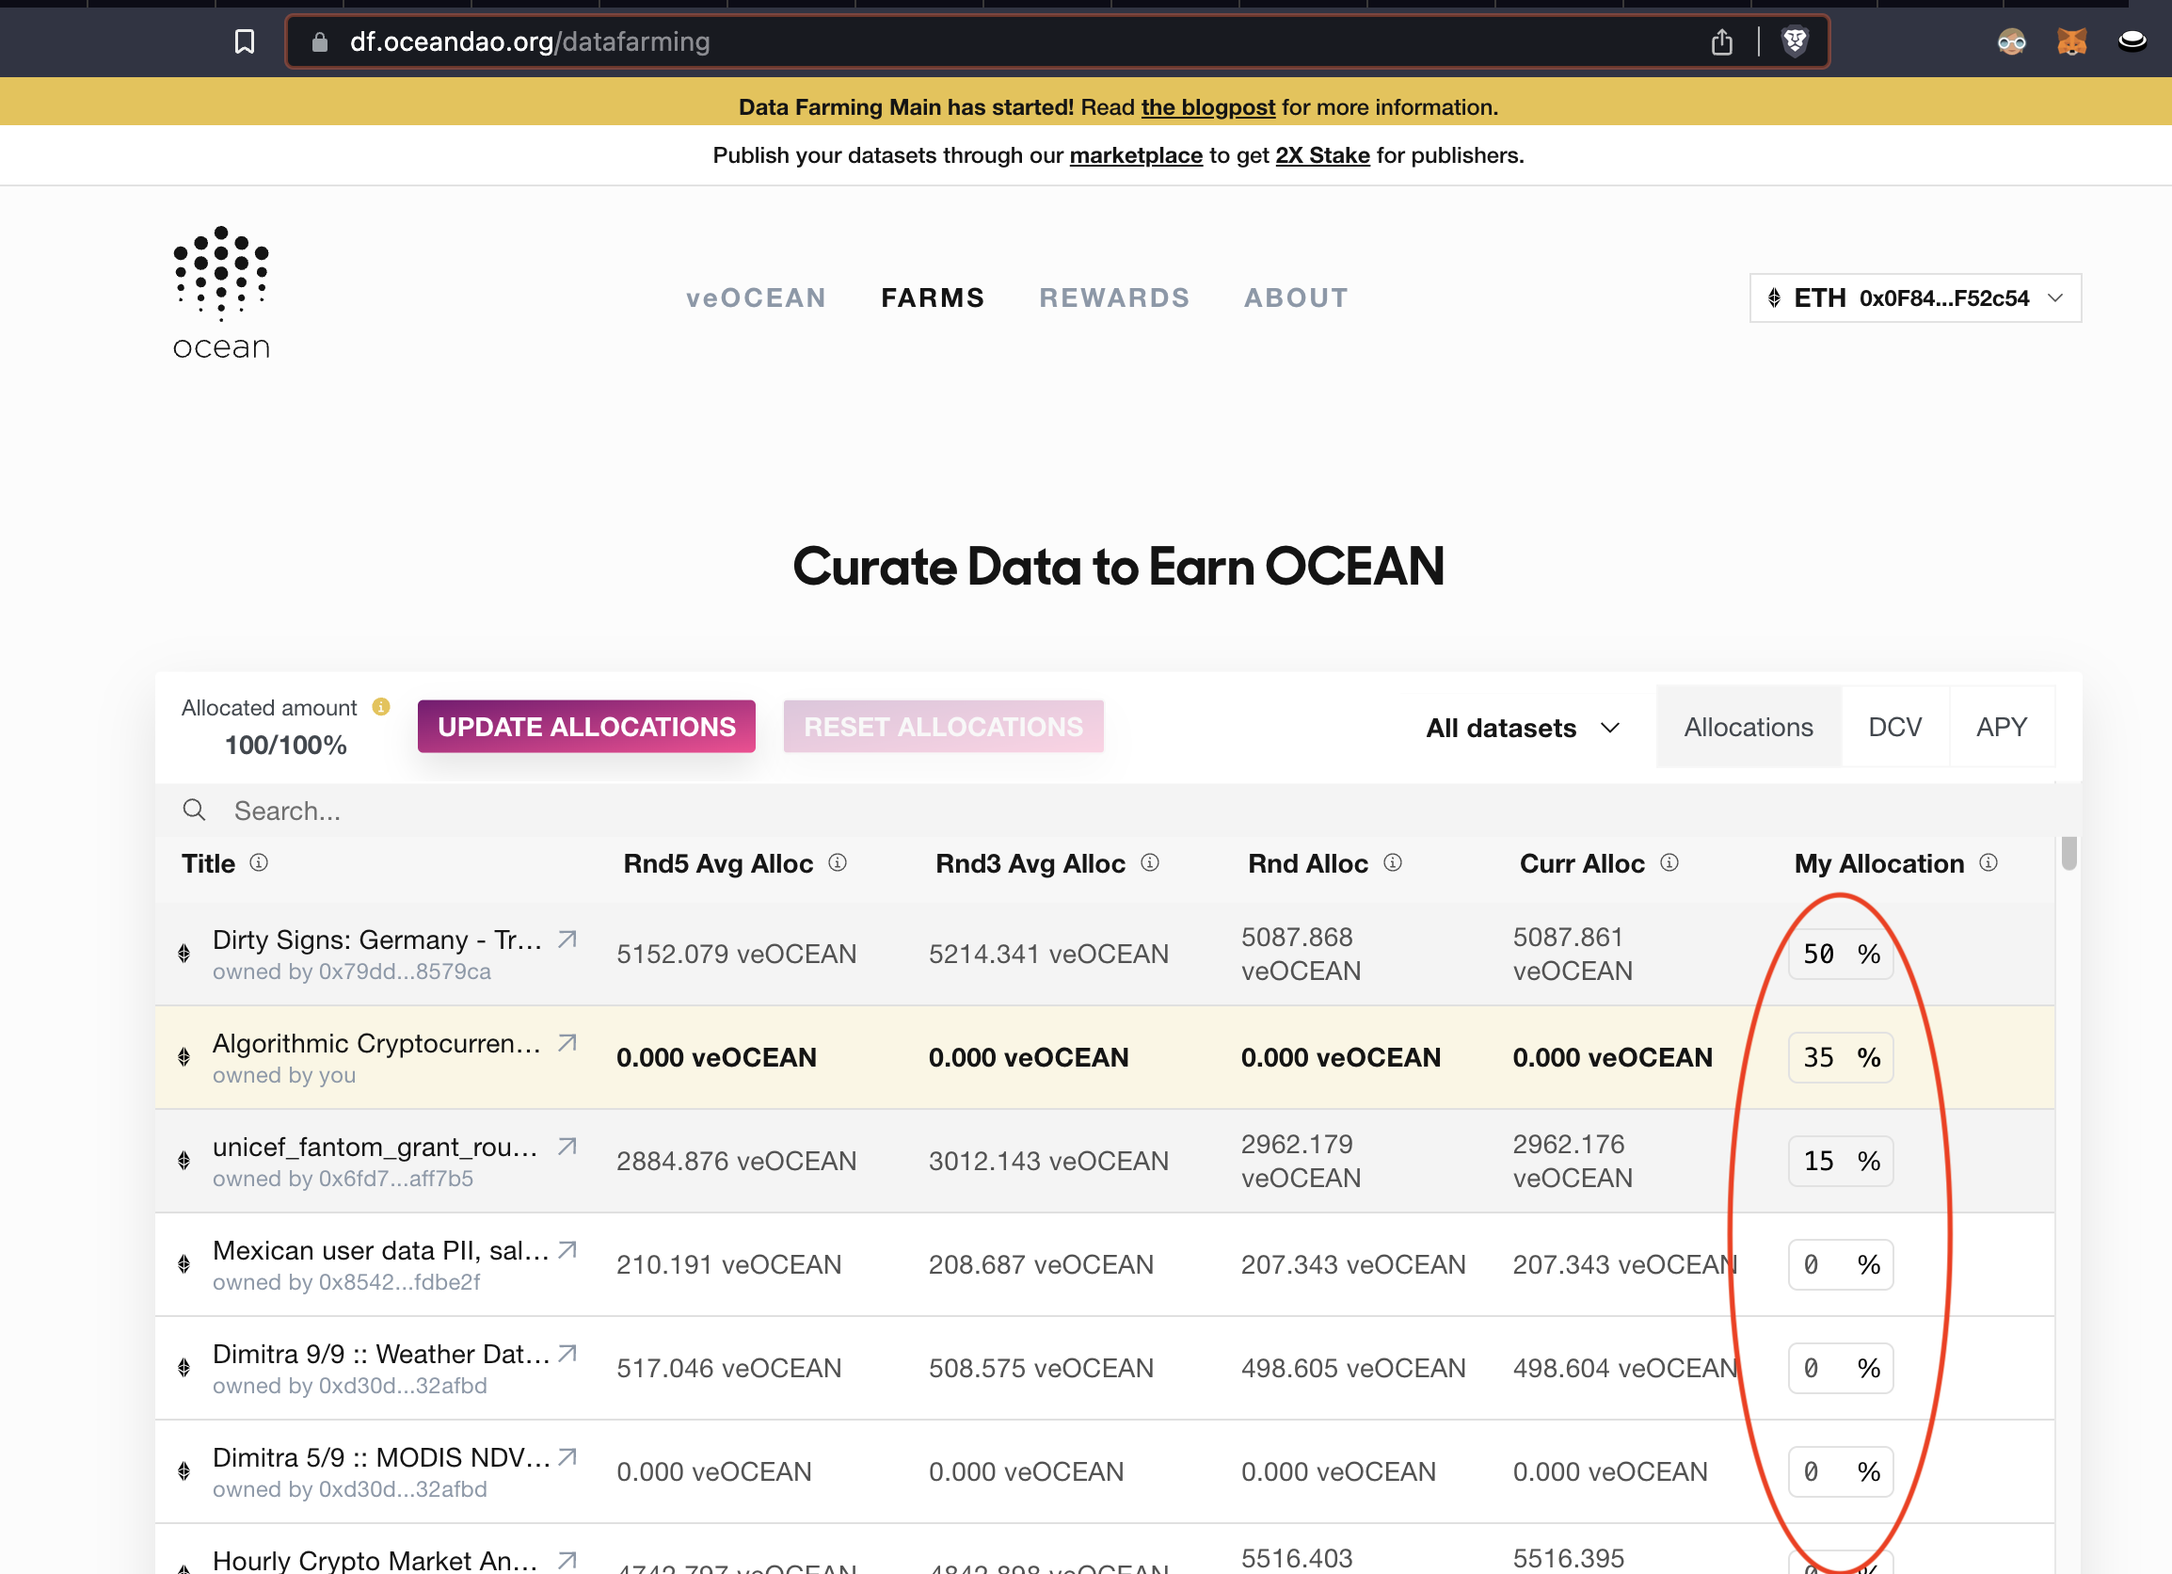
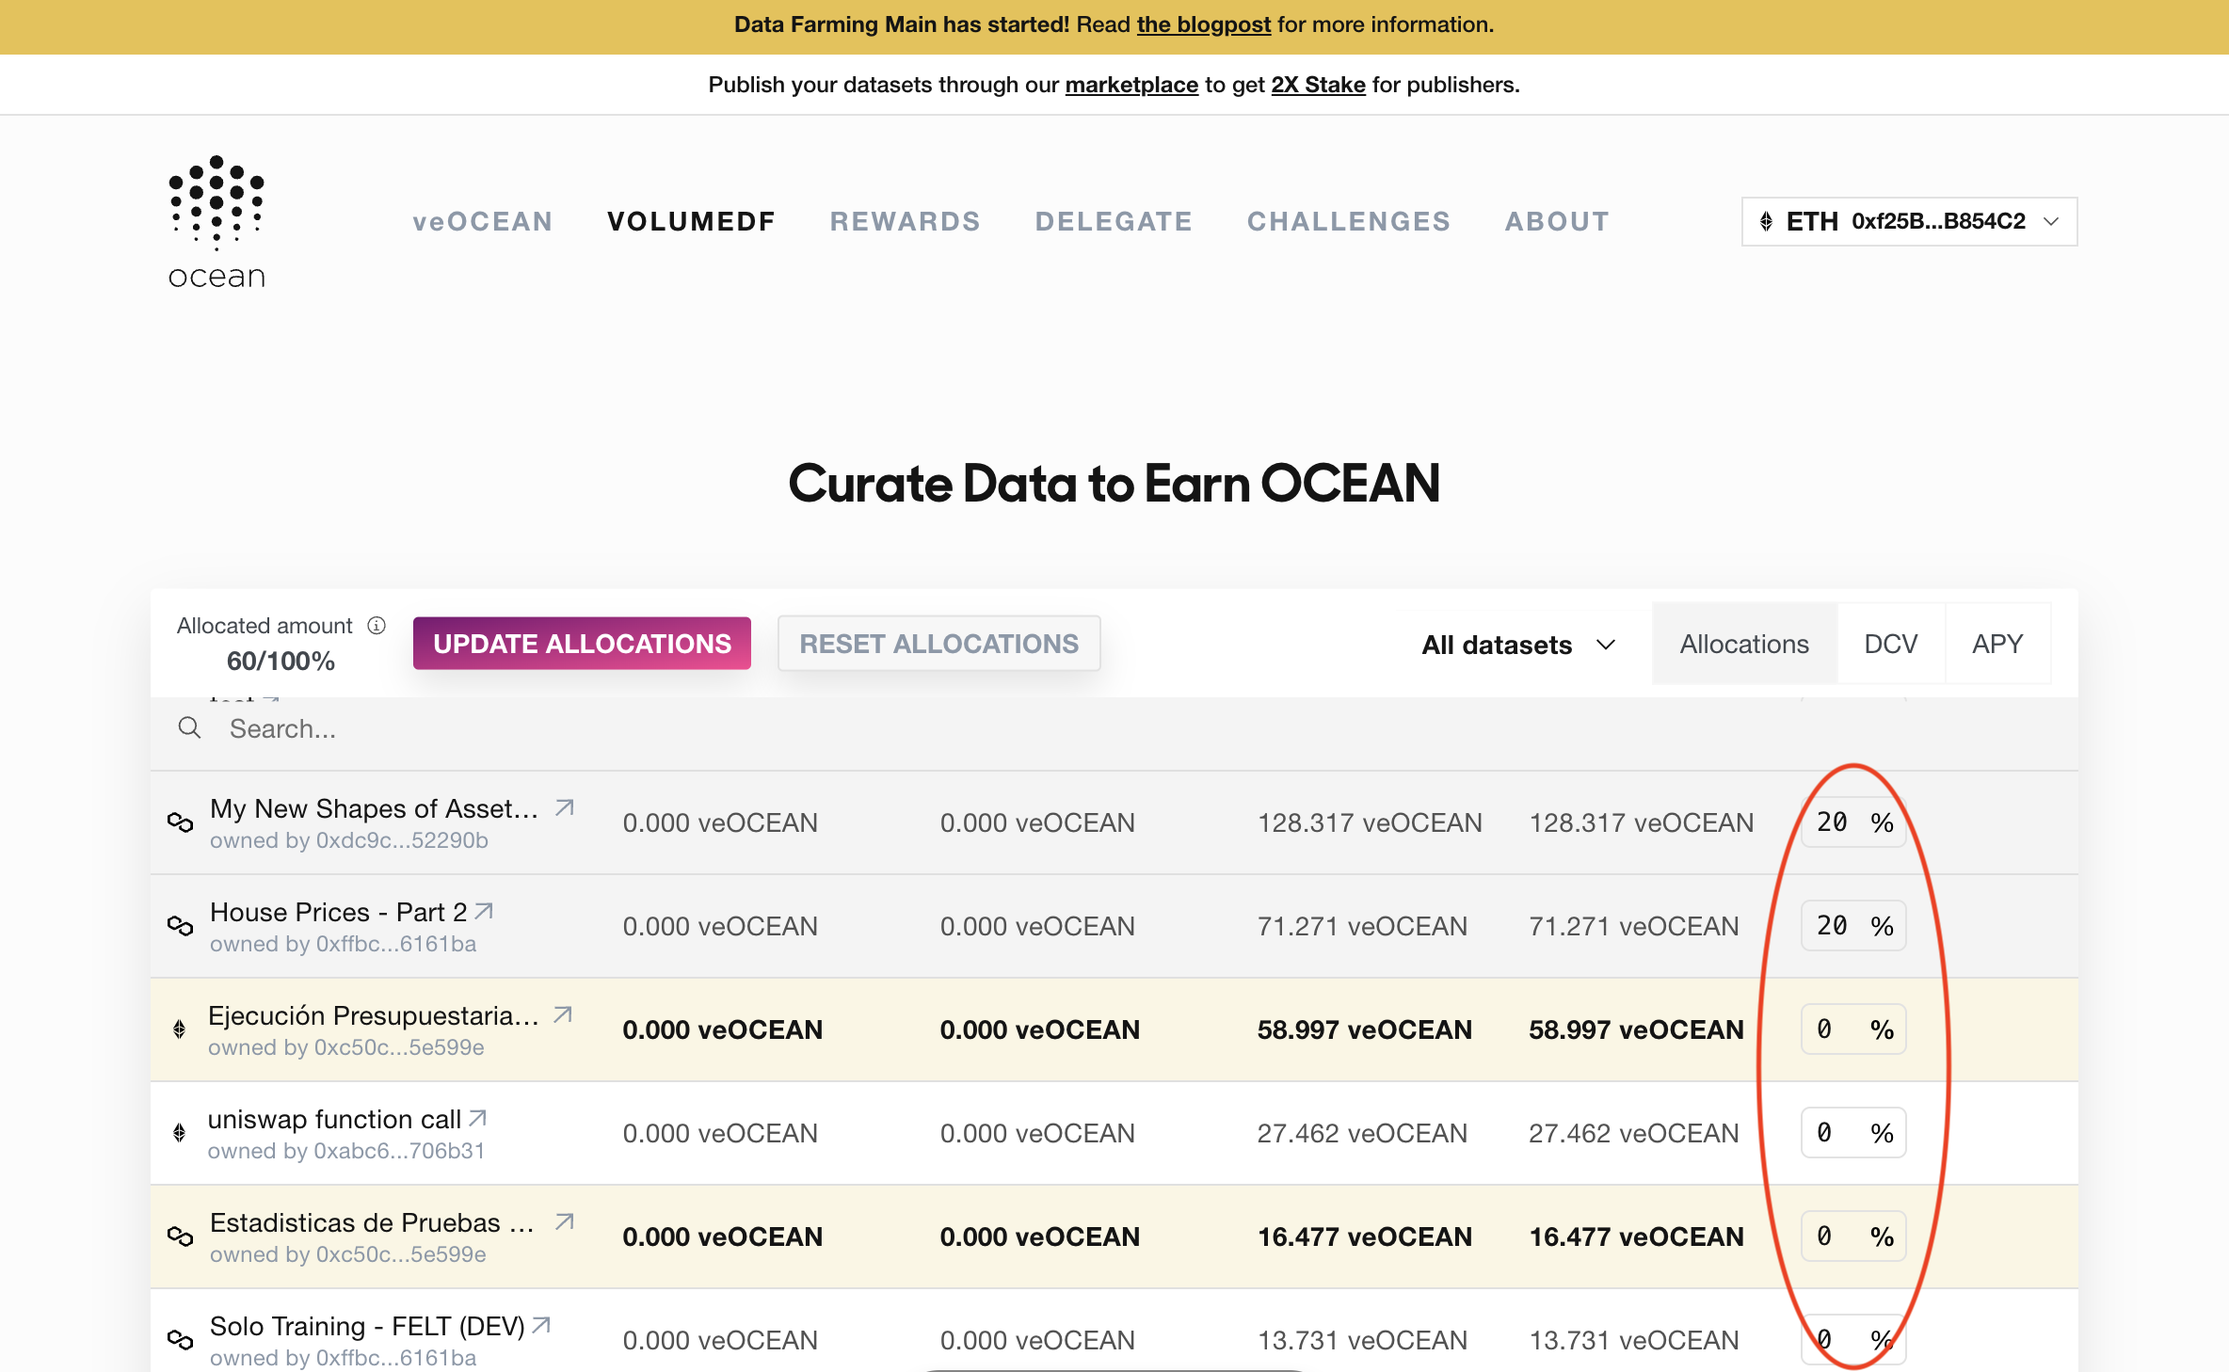
work around data farming rewards and add Challenge df instructions

diff --git a/user-guides/how-to-data-farm.md b/user-guides/how-to-data-farm.md
@@ -6,56 +6,28 @@ description: Make extra dosh with active rewards yield in Data Farming
 
 <figure><img src="../.gitbook/assets/gif/farming.gif" alt=""><figcaption></figcaption></figure>
 
-### Get More Yield from Active Rewards
+## Get More Yield from Data Farming Active Rewards
 
-The bread and butter of the Data Farming dApp is incentivizing OCEAN rewards for curating valuable assets in the Ocean ecosystem. The way that users curate assets is by **allocating veOCEAN** to them using the Data Farming dApp. We'll show you how!
+The bread and butter of the Data Farming dApp is incentivizing OCEAN rewards for curating and publishing valuable assets in the Ocean ecosystem. The way that users curate assets is by **allocating veOCEAN** to them using the Data Farming dApp. We'll show you how!
 
-#### Step 1 - Navigate to the Data Farming dApp
+## Active Rewards substreams
 
-* Go to https://df.oceandao.org
+Active Rewards is one of the two main streams within Data Farming, along with Passive Rewards. The Active Rewards stream offers a defined amount of rewards for each round and is further divided into multiple substreams.
 
-#### Step 2 - Connect your wallet
+The primary objective of these substreams is to provide users with various opportunities to actively engage in Data Farming. This approach allows users with different skills and interests to collaborate and contribute their unique abilities towards achieving the core values of Ocean Protocol.
 
-* Connect your wallet to the Data Farming dApp using the Ethereum network (mainnet)
+### Volume DF Substream
 
-#### Step 3 - Click on the Farms tab in the top menu
+If you have locked your OCEAN tokens in exchange for veOCEAN, this is the ideal opportunity for you to utilize those veOCEAN tokens and earn a portion of active rewards in addition to passive rewards.
 
-<figure><img src="../.gitbook/assets/farms-page.png" alt=""><figcaption><p>Click the Farms page link in the menu</p></figcaption></figure>
+By allocating your veOCEAN power to high-quality datasets, you can assist Ocean in curating datasets. Moreover, through allocation, you will also receive a portion of the revenue generated by the dataset consumption.
 
-#### Step 4 - Select the assets which you would like to allocate to by toggling the percentage allocation at the end of the row
+For more information on how to get started and detailed instructions, please refer to the [Volume DF](/user-guides/how-to-farm-volumedf.md) section.
 
-* On the rightmost column, toggle the percentage of your total veOCEAN that you wish to allocate to each asset of your choice. You will **get a portion of the sales** of each asset that you allocate to!
-* Note that if you allocate to an asset that YOU published, then you will get an **allocation** **boost** and your allocation will be counted as **2x**. The rows for assets that you publish will appear cream-colored.
+### Challenge DF Substream
 
-<figure><img src="../.gitbook/assets/allocations.png" alt=""><figcaption><p>Toggle the percentage of your veOCEAN that you would like to allocate to each asset</p></figcaption></figure>
+If you are a data scientist and enjoy tackling challenging problems, this is the perfect place for you. The Challenge DF provides a weekly challenge where you can test your skills in predicting the price of Ethereum. Compete against other participants to earn a place on the podium and receive a share of the available rewards.
 
-#### Step 5 - Click the Update Allocations button
+This opportunity allows you to explore the capabilities offered by Ocean Protocol and gain valuable exposure. As your models and skills improve, you can publish your models on the main network and begin monetizing your work.
 
-* Click the pink Update Allocations button
-* Sign the transactions with your wallet & pay the gas fees
-
-<figure><img src="../.gitbook/assets/update-allocations.png" alt=""><figcaption><p>Click the Update Allocations button</p></figcaption></figure>
-
-That's it! You've successfully allocated (aka "voted on") your favorite assets in the Ocean ecosystem using your veOCEAN tokens and are generating active rewards yield. Now, just wait until next Thursday to see if you can [claim any OCEAN rewards](claim-ocean-rewards.md) on the Active Rewards section of the [Rewards page](https://df.oceandao.org/rewards) for your portion of the assets' sales. Remember that your first time claiming rewards will require at least one week, but not more than 2 weeks of wait!
-
-### How to Delegate Your Active Rewards
-
-Do you have multiple wallets? Say you want to send rewards to someone you 💖 We have a solution for that! Data Farming's [Delegate](https://df.oceandao.org/delegate) feature allows you to transfer your veOCEAN allocation power to another wallet address. Another reason for delegating - you might be able to earn a higher annual percentage yield (APY) by delegating your active rewards to an address that more efficiently manages your allocation. For all these reasons and more, then you might want to delegate - go to [https://df.oceandao.org/delegate](https://df.oceandao.org/delegate) to make the magic happen ✨
-
-
-
-When you delegate, you transfer 100% of your veOCEAN allocation power for a limited period. You can delegate your active rewards \*without\* the need for reallocation and transaction fees! Note that after you delegate, then you cannot manage your allocations until the delegation expires. The delegation expiration date is the same as your veOCEAN Lock End Date at the time of delegation. If necessary, you can extend your Lock End Date before delegating. You can also cancel your delegation at any time 💪 Once delegated, rewards will be sent to the wallet address you delegated to. Then, the delegation receiver is in charge of your active rewards and is responsible for returning those back to you should you choose to do so.&#x20;
-
-Follow these steps to delegate your veOCEAN:
-
-1. Go to the [Data Farming dApp](https://df.oceandao.org).
-2. Navigate to the [Delegate page](https://df.oceandao.org/delegate).
-3. Enter the wallet address you wish to delegate your active rewards to into the 'Receiver wallet address' field.
-4. Click the Delegate button and sign the transaction with your wallet. You can view information about your delegation in the My Delegations component.
-5. If you desire, the you can cancel the delegation to regain your allocation power before the delegation expires.
-
-#### What if someone delegates active rewards to you?
-
-If you receive veOCEAN allocation power from other wallets, then you will receive their active rewards. You cannot delegate the veOCEAN you received from delegates, only the veOCEAN you received from your lock.&#x20;
-
-<figure><img src="https://1520763098-files.gitbook.io/~/files/v0/b/gitbook-x-prod.appspot.com/o/spaces%2FzQlpIJEeu8x5yl0OLuXn%2Fuploads%2Fgit-blob-423f12f5b84205ab6cff8b79a1211fcd955d637c%2FveOCEAN-Delegation.png?alt=media" alt=""><figcaption></figcaption></figure>
+For detailed instructions and information on how to get started, please refer to the [Challenge DF](/user-guides/how-to-farm-challengedf.md) section.

diff --git a/user-guides/how-to-farm-volumedf.md b/user-guides/how-to-farm-volumedf.md
@@ -1,0 +1,59 @@
+---
+description: Make extra dosh with active rewards yield in Data Farming
+---
+
+# Harvest More Yield Data Farming - Volume DF
+
+<figure><img src="../.gitbook/assets/gif/farming.gif" alt=""><figcaption></figcaption></figure>
+
+## Get More Yield from Volume DF Rewards
+
+The bread and butter of the Data Farming dApp is incentivizing OCEAN rewards for curating and publishing valuable assets in the Ocean ecosystem. The way that users curate assets is by **allocating veOCEAN** to them using the Data Farming dApp. We'll show you how!
+
+#### Step 1 - Navigate to the Data Farming dApp
+
+- Go to https://df.oceandao.org
+
+#### Step 2 - Connect your wallet
+
+- Connect your wallet to the Data Farming dApp using the Ethereum network (mainnet)
+
+#### Step 3 - Click on the VolumeDF tab in the top menu
+
+<figure><img src="../.gitbook/assets/volumeDF-page.png" alt=""><figcaption><p>Click the VolumeDF page link in the menu</p></figcaption></figure>
+
+#### Step 4 - Select the assets which you would like to allocate to by toggling the percentage allocation at the end of the row
+
+- On the rightmost column, toggle the percentage of your total veOCEAN that you wish to allocate to each asset of your choice. You will **get a portion of the sales** of each asset that you allocate to!
+- Note that if you allocate to an asset that YOU published, then you will get an **allocation** **boost** and your allocation will be counted as **2x**. The rows for assets that you publish will appear cream-colored.
+
+<figure><img src="../.gitbook/assets/allocations.png" alt=""><figcaption><p>Toggle the percentage of your veOCEAN that you would like to allocate to each asset</p></figcaption></figure>
+
+#### Step 5 - Click the Update Allocations button
+
+- Click the pink Update Allocations button
+- Sign the transactions with your wallet & pay the gas fees
+
+<figure><img src="../.gitbook/assets/update-allocations.png" alt=""><figcaption><p>Click the Update Allocations button</p></figcaption></figure>
+
+That's it! You've successfully allocated (aka "voted on") your favorite assets in the Ocean ecosystem using your veOCEAN tokens and are generating active rewards yield. Now, just wait until next Thursday to see if you can [claim any OCEAN rewards](claim-ocean-rewards.md) on the Active Rewards section of the [Rewards page](https://df.oceandao.org/rewards) for your portion of the assets' sales. Remember that your first time claiming rewards will require at least one week, but not more than 2 weeks of wait!
+
+### How to Delegate Your Active Rewards
+
+Do you have multiple wallets? Say you want to send rewards to someone you 💖 We have a solution for that! Data Farming's [Delegate](https://df.oceandao.org/delegate) feature allows you to transfer your veOCEAN allocation power to another wallet address. Another reason for delegating - you might be able to earn a higher annual percentage yield (APY) by delegating your active rewards to an address that more efficiently manages your allocation. For all these reasons and more, then you might want to delegate - go to [https://df.oceandao.org/delegate](https://df.oceandao.org/delegate) to make the magic happen ✨
+
+When you delegate, you transfer 100% of your veOCEAN allocation power for a limited period. You can delegate your active rewards \*without\* the need for reallocation and transaction fees! Note that after you delegate, then you cannot manage your allocations until the delegation expires. The delegation expiration date is the same as your veOCEAN Lock End Date at the time of delegation. If necessary, you can extend your Lock End Date before delegating. You can also cancel your delegation at any time 💪 Once delegated, rewards will be sent to the wallet address you delegated to. Then, the delegation receiver is in charge of your active rewards and is responsible for returning those back to you should you choose to do so.&#x20;
+
+Follow these steps to delegate your veOCEAN:
+
+1. Go to the [Data Farming dApp](https://df.oceandao.org).
+2. Navigate to the [Delegate page](https://df.oceandao.org/delegate).
+3. Enter the wallet address you wish to delegate your active rewards to into the 'Receiver wallet address' field.
+4. Click the Delegate button and sign the transaction with your wallet. You can view information about your delegation in the My Delegations component.
+5. If you desire, the you can cancel the delegation to regain your allocation power before the delegation expires.
+
+#### What if someone delegates active rewards to you?
+
+If you receive veOCEAN allocation power from other wallets, then you will receive their active rewards. You cannot delegate the veOCEAN you received from delegates, only the veOCEAN you received from your lock.&#x20;
+
+<figure><img src="https://1520763098-files.gitbook.io/~/files/v0/b/gitbook-x-prod.appspot.com/o/spaces%2FzQlpIJEeu8x5yl0OLuXn%2Fuploads%2Fgit-blob-423f12f5b84205ab6cff8b79a1211fcd955d637c%2FveOCEAN-Delegation.png?alt=media" alt=""><figcaption></figcaption></figure>

diff --git a/user-guides/how-to-farm-challengedf.md b/user-guides/how-to-farm-challengedf.md
@@ -1,0 +1,45 @@
+---
+description: Make extra dosh with active rewards yield in Data Farming
+---
+
+# Harvest More Yield Data Farming - Challenge DF
+
+<figure><img src="../.gitbook/assets/gif/farming.gif" alt=""><figcaption></figcaption></figure>
+
+## Get More Yield from Challenge DF Rewards
+
+The core focus of the Data Farming dApp lies in incentivizing OCEAN rewards for the curation and publication of valuable assets within the Ocean ecosystem. If you're eager to begin extracting value from data but aren't sure how to get started, the Challenge DF is here to help! By participating in data challenges, you can become familiar with the Ocean Protocol stack and discover how to compete effectively.
+
+These are the steps to get involved:
+
+#### Step 1 - Navigate to the Data Farming dApp
+
+- Go to https://df.oceandao.org
+
+#### Step 2 - Click on the Challenges tab in the top menu
+
+<figure><img src="../.gitbook/assets/volumeDF-page.png" alt=""><figcaption><p>Click the Challenges page link in the menu</p></figcaption></figure>
+
+#### Step 3 - Click on the participate button to get to the readme that contains the challenge details.
+
+- You can see the ongoing challenge right away together with some key informations such as submission deadline and available rewards.
+
+<figure><img src="../.gitbook/assets/challenge-active.png" alt=""><figcaption><p>Click the Participate button</p></figcaption></figure>
+
+#### Step 4 - Go trought the readme and follow the steps for getting your challenge submitted.
+
+- Click the pink Update Allocations button
+- Sign the transactions with your wallet & pay the gas fees
+
+#### Step 5 - Check out the challenge results and see If you are one of the winners.
+
+<figure><img src="../.gitbook/assets/challenge-history.png" alt=""></figure>
+- Connect your wallet to the Data Farming dApp using the Ethereum network (mainnet)
+
+#### Step 6 - View and claim rewards.
+
+<figure><img src="../.gitbook/assets/challenge-substream.png" alt=""><figcaption><p>Click the Claim Rewards button</p></figcaption></figure>
+
+- Connect your wallet first.
+- Your Challenge rewards will be displayed in the rewards metric of the Challenge DF substream section. They will also be combined with other active rewards and shown in the total rewards section.
+- To claim your Challenge DF rewards along with other active rewards, simply click on the "Claim Rewards" button in the Active Rewards section.
